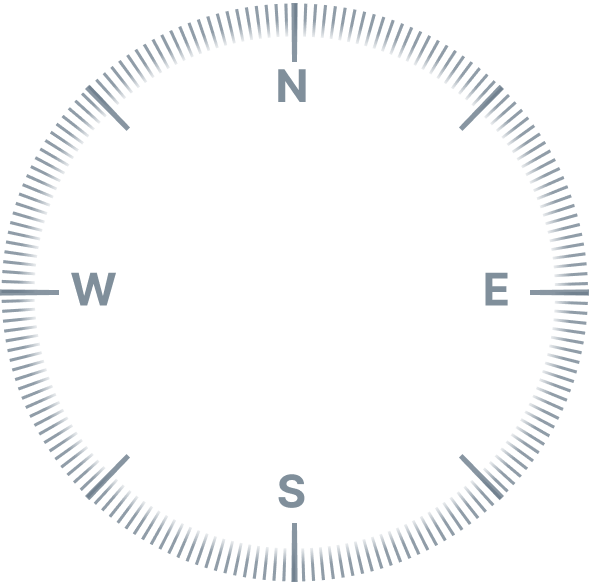
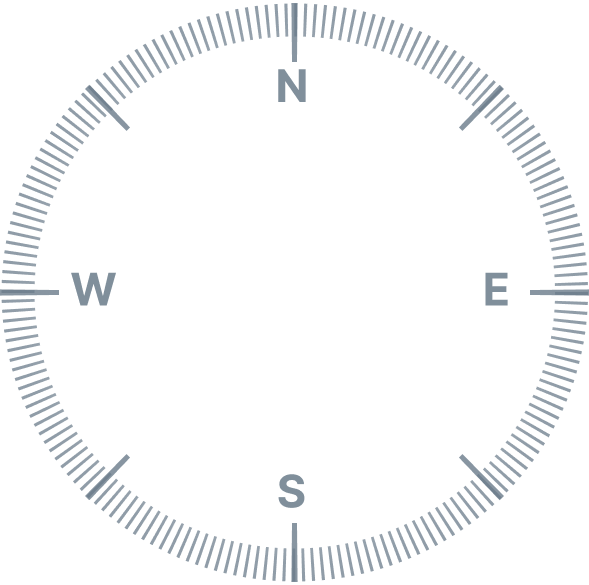
compass dark mode theme

diff --git a/weatherinfo.js b/weatherinfo.js
@@ -37,7 +37,8 @@ let searchBarFlex = document.getElementById("search-bar-flex");
 let UVTile = document.getElementById("UV-tile");
 let airTile = document.getElementById("air-tile");
 let rainTile = document.getElementById("rain-tile");
-let windTile = document.getElementById("wind-direction");
+let windDirection = document.getElementById("wind-direction");
+let windTile = document.getElementById("wind-tile");
 let sunTile = document.getElementById("sun-tile");
 
 // Sunset Sunrise Variables
@@ -436,7 +437,7 @@ const displayConditions = async (locKeyVal) => {
     //     </div>
     // </div>`;
 
-    windTile.innerHTML = `<p> ${windVal} <span>mph</span></p>`;
+    windDirection.innerHTML = `<p> ${windVal} <span>mph</span></p>`;
     document.getElementsByClassName('arrow')[0].id = windDir; //change ID of arrow class
 
     // SUNSET AND SUNRISE
@@ -473,6 +474,7 @@ const displayMode = async (locKeyVal) => {
     let todayTitle = document.querySelector("#title0");
     let blurbg = document.querySelector(".blur-bg");
     let searchArea = document.querySelector(".flex6");
+    let compass = document.getElementById("compass");
 
     console.log(blurbg);
 
@@ -491,7 +493,9 @@ const displayMode = async (locKeyVal) => {
         todayTitle.style.color = `#FFFFFF`;
         blurbg.style.backgroundColor = `rgba(102, 100, 127, 0.78)`;
         windTile.style.background = `rgb(148, 148, 180, 0.6)`;
-        windTile.style.color = `#FFFFFF`;
+        windDirection.style.color = `#FFFFFF`;
+        compass.style.background = "url(assets/gaugeStyles/gagueWhite.png), rgba(236, 236, 236, 0.4)";
+        compass.style.backgroundSize = "contain";
         searchArea.style.background = `rgba(117, 117, 152, 0.5)`;
         searchArea.style.color = `#FFFFFF`;
     }

diff --git a/index.html b/index.html
@@ -169,7 +169,7 @@
                         <div id="wind-square">
                             <div class="rect5 box" id="wind-tile">
                                 <div class="condition-dat" id="wind-data">
-                                    <div class="compass">
+                                    <div class="compass" id="compass">
                                         <div class="direction" id="wind-direction">
                                           <p> 8 <span>mph</span></p>
                                         </div>
